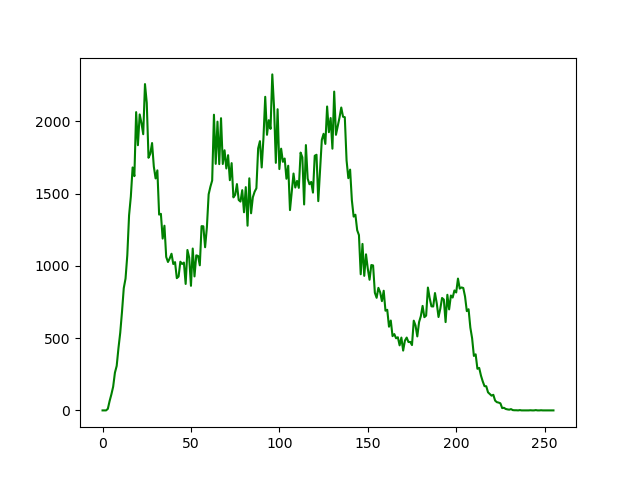
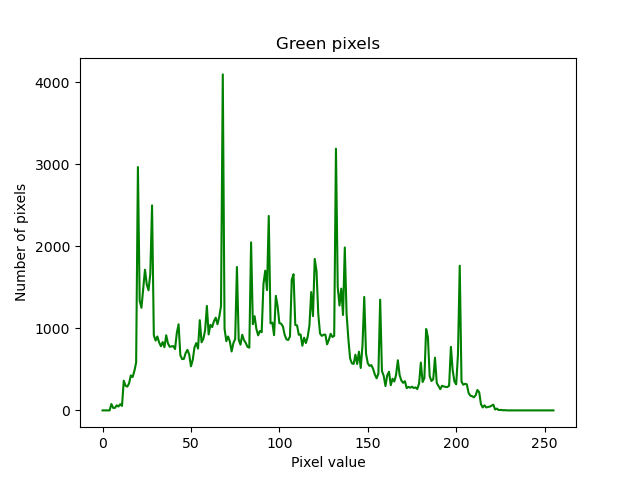
v1.0

diff --git a/src/sample/Controller.java b/src/sample/Controller.java
@@ -57,7 +57,7 @@ public class Controller {
         //System.out.println(this.processor);
     }
     
-    public void loadImage(ActionEvent actionEvent) {
+    public void loadImage(ActionEvent actionEvent) throws IOException {
         FileChooser fileChooser = new FileChooser();
         fileChooser.setTitle("załaduj zdjęcie");
         fileChooser.getExtensionFilters().addAll(
@@ -78,6 +78,9 @@ public class Controller {
               e.printStackTrace();
           }
         }
+        BufferedImage temp = SwingFXUtils.fromFXImage(originalimage, null);
+        ImageIO.write(temp, "PNG", outfile);
+        histograms("swap/image.png");
         resetSliders();
     }
     public void resetSliders()
@@ -93,7 +96,7 @@ public class Controller {
     }
     public void saveImage(ActionEvent actionEvent) {
         FileChooser fileChooser = new FileChooser();
-        fileChooser.setTitle("załaduj zdjęcie");
+        fileChooser.setTitle("Załaduj zdjęcie");
         fileChooser.getExtensionFilters().addAll(
                 new FileChooser.ExtensionFilter("PNG", "*.png"),
                 new FileChooser.ExtensionFilter("BMP", "*.bmp"),
@@ -116,56 +119,32 @@ public class Controller {
         }
     }
 
-//    public void KontrastChange(MouseEvent mouseEvent) throws IOException {
-//        BufferedImage temp = SwingFXUtils.fromFXImage(originalimage, null);
-//        ImageIO.write(temp, "PNG", outfile);
-//        processor.contrast((int)Math.round(kontrast.getValue()));
-//        bufferedImage = ImageIO.read(processedfile);
-//        image = SwingFXUtils.toFXImage(bufferedImage,null);
-//        imageView.setImage(image);
-//
-//    }
-//
-//    public void NasycenieChanged(MouseEvent mouseEvent) throws IOException {
-//        BufferedImage temp = SwingFXUtils.fromFXImage(originalimage, null);
-//        ImageIO.write(temp, "PNG", outfile);
-//        processor.saturation((int)Math.round(nasycenie.getValue()));
-//        bufferedImage = ImageIO.read(processedfile);
-//        image = SwingFXUtils.toFXImage(bufferedImage,null);
-//        imageView.setImage(image);
-//    }
-//
-//    public void JasnoscChanged(MouseEvent mouseEvent) {
-//        System.out.println(jasnosc.getValue());
-//    }
-//
-//    public void TemperaturaChanged(MouseEvent mouseEvent) {
-//        System.out.println(temperatura.getValue());
-//    }
-//
-//    public void BalansChanged(MouseEvent mouseEvent) {
-//        System.out.println(balans.getValue());
-//    }
-//
-//    public void WyostrzenieChanged(MouseEvent mouseEvent) {
-//        System.out.println(wyostrzanie.getValue());
-//    }
-//
-//    public void RozmycieChanged(MouseEvent mouseEvent) {
-//        System.out.println(rozmycie.getValue());
-//    }
-
-
     @Override
     public String toString() {
         return "Instance";
     }
 
     public void loadHistograms(ActionEvent actionEvent) throws IOException {
-//        BufferedImage temp = SwingFXUtils.fromFXImage(image, null);
-//        ImageIO.write(temp, "PNG", outfile);
-//        processor.histograms();
+        histograms("swap/image.png");
+    }
 
+    public void slidersChange(MouseEvent mouseEvent) throws IOException {
+        BufferedImage temp = SwingFXUtils.fromFXImage(originalimage, null);
+        ImageIO.write(temp, "PNG", outfile);
+        processor.all_operations((int)Math.round(kontrast.getValue()),
+                (int)Math.round(jasnosc.getValue()),
+                (int)Math.round(nasycenie.getValue()),
+                (int)ostrosc.getValue(),
+                (int)temperatura.getValue(),
+                balansCzerwony.getValue(), balansZielony.getValue(), balansNiebieski.getValue());
+        bufferedImage = ImageIO.read(processedfile);
+        image = SwingFXUtils.toFXImage(bufferedImage,null);
+        imageView.setImage(image);
+        histograms("swap/processed.png");
+    }
+
+    private void histograms(String path) throws IOException {
+        processor.histograms(path);
         bufferedImage = ImageIO.read(redFile);
         red = SwingFXUtils.toFXImage(bufferedImage,null);
         redView.setImage(red);
@@ -182,19 +161,5 @@ public class Controller {
         lum = SwingFXUtils.toFXImage(bufferedImage,null);
         lumView.setImage(lum);
     }
-
-    public void slidersChange(MouseEvent mouseEvent) throws IOException {
-        BufferedImage temp = SwingFXUtils.fromFXImage(originalimage, null);
-        ImageIO.write(temp, "PNG", outfile);
-        System.out.println();
-        processor.all_operations((int)Math.round(kontrast.getValue()),
-                (int)Math.round(jasnosc.getValue()),
-                (int)Math.round(nasycenie.getValue()),
-                (int)ostrosc.getValue(),
-                (int)temperatura.getValue(),
-                balansCzerwony.getValue(), balansZielony.getValue(), balansNiebieski.getValue());
-        bufferedImage = ImageIO.read(processedfile);
-        image = SwingFXUtils.toFXImage(bufferedImage,null);
-        imageView.setImage(image);
-    }
 }
+

diff --git a/image_processing.py b/image_processing.py
@@ -128,8 +128,8 @@ class ImageProcessing():
             11900: (195, 210, 255),
             12000: (195, 209, 255)} 
 
-    def histograms(self):
-        img = cv2.imread('swap/image.png')
+    def histograms(self, path):
+        img = cv2.imread(path)
         img_rgb = cv2.cvtColor(img, cv2.COLOR_BGR2RGB)
         img_lum = cv2.cvtColor(img, cv2.COLOR_BGR2YCR_CB)
         histr = cv2.calcHist([img_rgb],[0],None,[256],[0,256])
@@ -139,15 +139,28 @@ class ImageProcessing():
 
         plt.xlabel("Pixel value")
         plt.ylabel("Number of pixels")
+        plt.title("Red pixels")
         plt.plot(histr, color="r", label="Red")
         plt.savefig("swap/red.png")
         plt.clf()
+
+        plt.xlabel("Pixel value")
+        plt.ylabel("Number of pixels")
+        plt.title("Green pixels")
         plt.plot(histg, color="g", label="Green")
         plt.savefig("swap/green.png")
         plt.clf()
+
+        plt.xlabel("Pixel value")
+        plt.ylabel("Number of pixels")
+        plt.title("Blue pixels")
         plt.plot(histb, color="b", label="Blue")
         plt.savefig("swap/blue.png")
         plt.clf()
+
+        plt.xlabel("Pixel value")
+        plt.ylabel("Number of pixels")
+        plt.title("Luminance pixels")
         plt.plot(histl, color="grey", label="Lumi")
         plt.savefig("swap/lum.png")
         plt.clf()

diff --git a/src/sample/ImageProcessor.java b/src/sample/ImageProcessor.java
@@ -1,7 +1,7 @@
 package sample;
 
 public interface ImageProcessor {
-    void histograms();
+    void histograms(String path);
     void contrast(int value);
     void brightness(int value);
     void saturation(int value);
